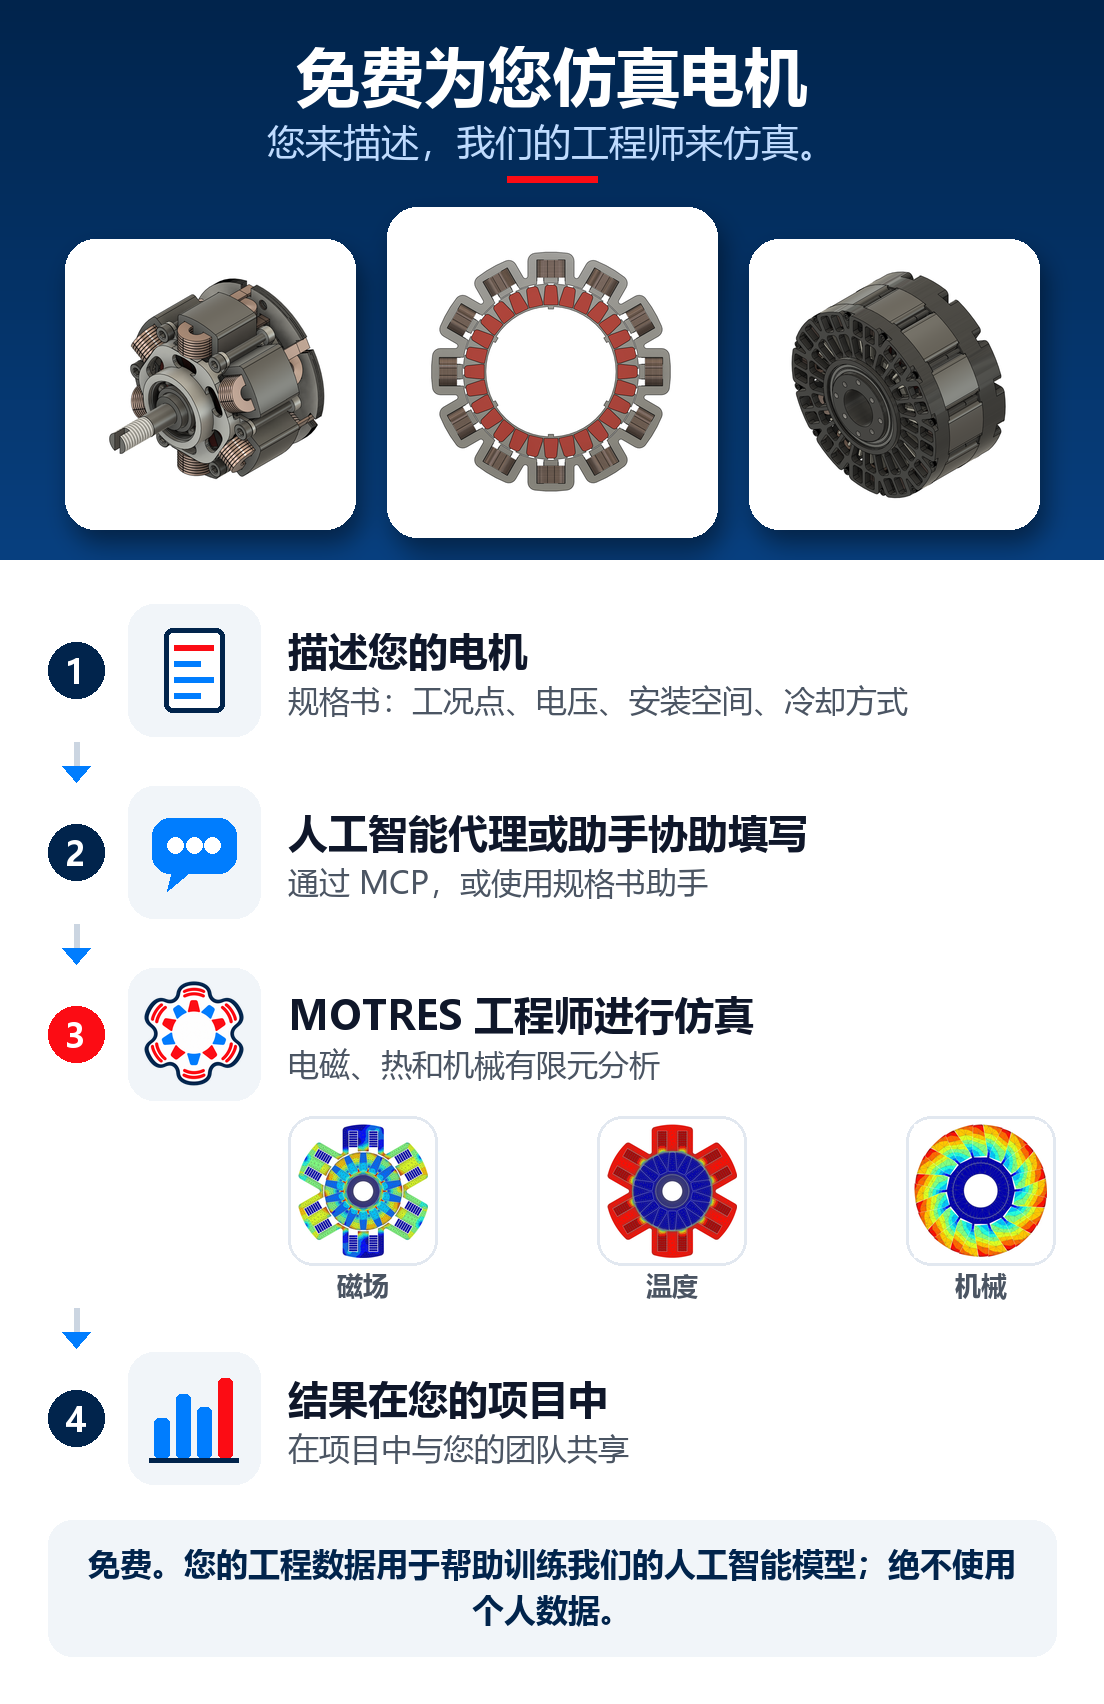
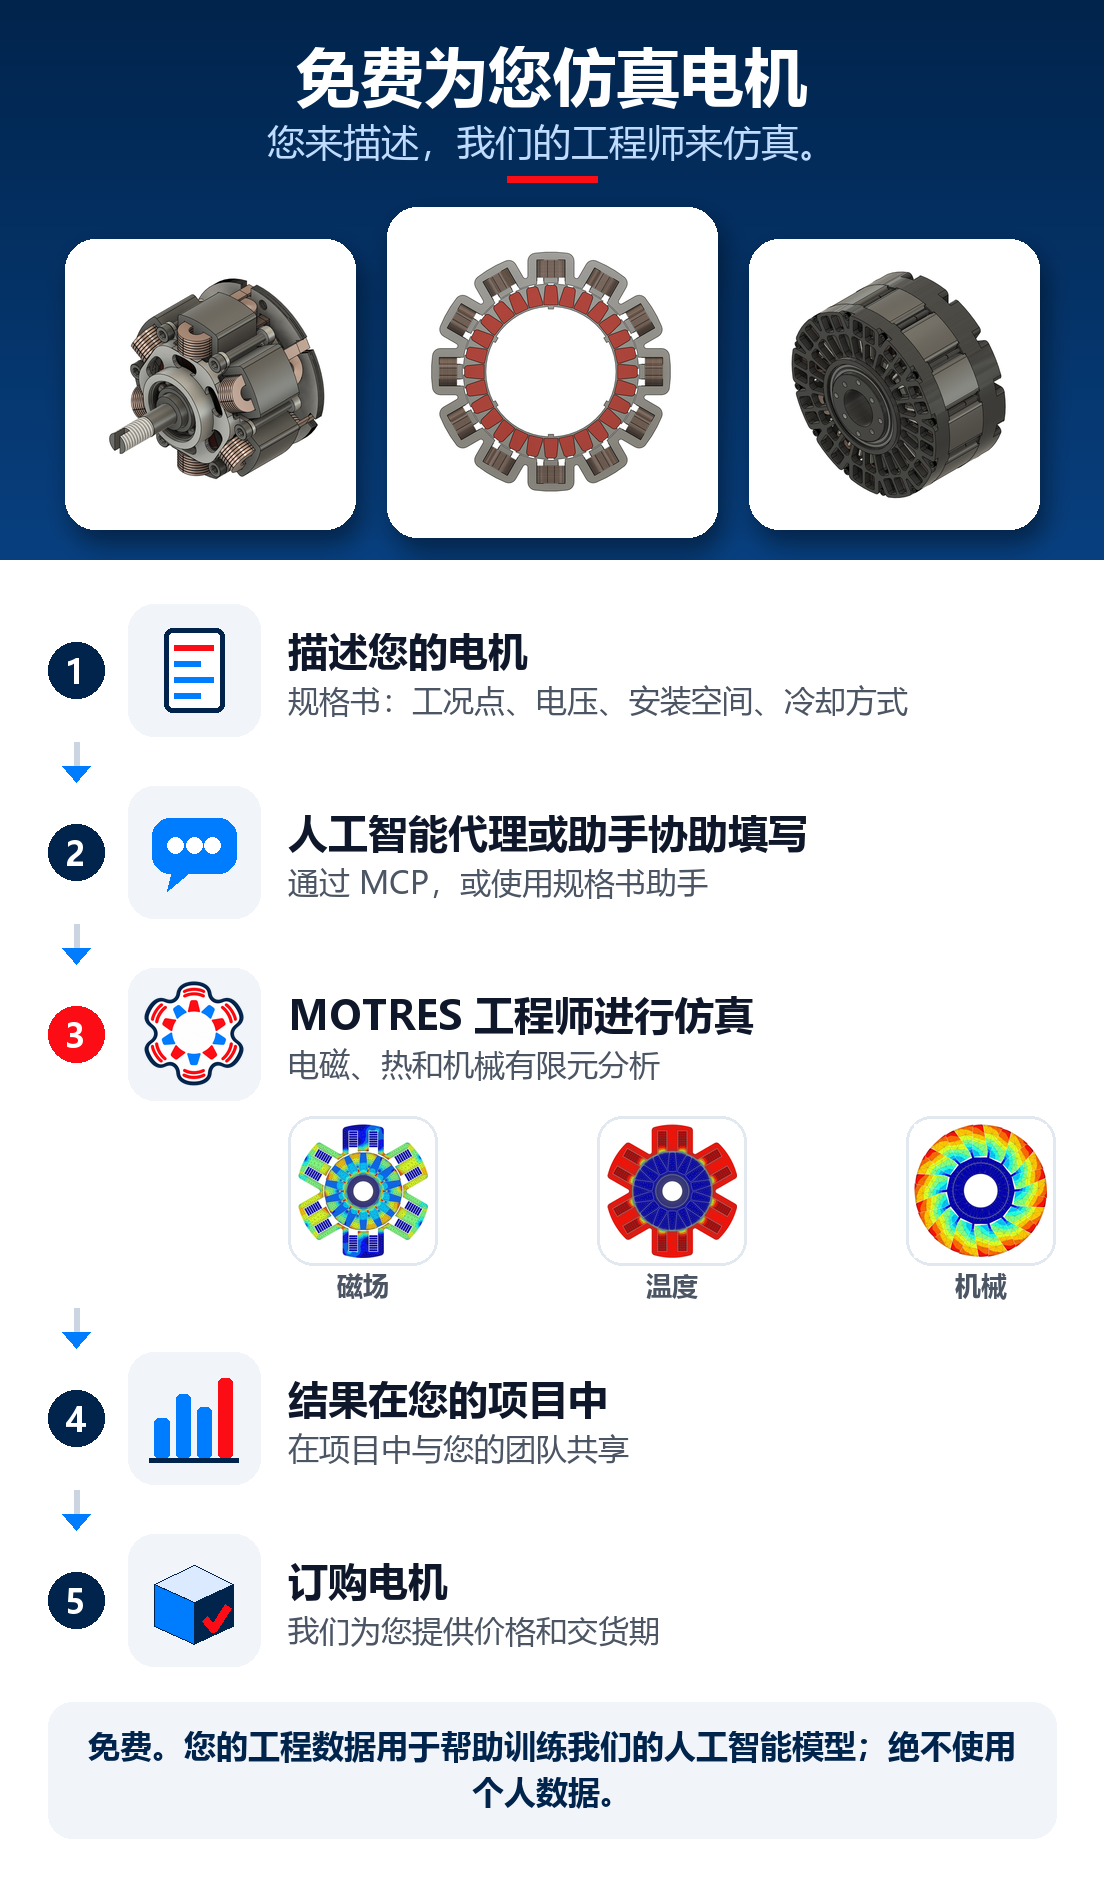
feat(mail): fifth step - order your motor, we send the price and lead time (owner 2026-11-11)

diff --git a/scripts/make_mail_flow_image.py b/scripts/make_mail_flow_image.py
@@ -4,7 +4,7 @@
     python scripts/make_mail_flow_image.py
 
 Writes ``config/mail/images/free_simulation_flow.<lang>.png`` (1104 px wide = 2x the 552 px text column of the mail).
-A hero strip with renders of OUR PUBLIC motors (owner 2026-11-11 «возьми картинки наших моторов»), then the four steps; step 3
+A hero strip with renders of OUR PUBLIC motors (owner 2026-11-11 «возьми картинки наших моторов»), then the five steps; step 3
 shows the electromagnetic, thermal and displacement maps the landing page already publishes.  Sources, all public:
 
 * ``web/public/landing/core-l12.webp`` and the three ``web/public/landing/*-map/field`` pictures - CIANO14 40 L12, a public
@@ -45,6 +45,7 @@ TEXT = {
             ("Your AI agent or our assistant fills it in", "Through MCP, or with the specification assistant"),
             ("MOTRES engineers simulate it", "Electromagnetic, thermal and mechanical FEM"),
             ("Results in your project", "Shared with your team in the project"),
+            ("Order your motor", "We send you the price and lead time"),
         ],
         "maps": ("Field", "Heat", "Mechanics"),
         "note": "Free. Your engineering data help train our AI models; personal data never.",
@@ -57,6 +58,7 @@ TEXT = {
             ("人工智能代理或助手协助填写", "通过 MCP，或使用规格书助手"),
             ("MOTRES 工程师进行仿真", "电磁、热和机械有限元分析"),
             ("结果在您的项目中", "在项目中与您的团队共享"),
+            ("订购电机", "我们为您提供价格和交货期"),
         ],
         "maps": ("磁场", "温度", "机械"),
         "note": "免费。您的工程数据用于帮助训练我们的人工智能模型；绝不使用个人数据。",
@@ -113,7 +115,7 @@ def hero(lang: str, fonts: dict) -> Image.Image:
 
 
 def icon(draw: ImageDraw.ImageDraw, i: int, x: int, y: int, s: int) -> None:
-    """Flat icons in a rounded tile: 0 specification sheet, 1 chat bubble, 3 result bars (2 = the maps, drawn separately)."""
+    """Flat icons in a rounded tile: 0 specification sheet, 1 chat bubble, 3 result bars, 4 order box (2 = the maps, drawn separately)."""
     draw.rounded_rectangle((x, y, x + s, y + s), radius=s // 5, fill=PALE)
     if i == 0:
         draw.rounded_rectangle((x + s * .27, y + s * .18, x + s * .73, y + s * .82), radius=8, fill=(255, 255, 255), outline=NAVY, width=5)
@@ -131,6 +133,12 @@ def icon(draw: ImageDraw.ImageDraw, i: int, x: int, y: int, s: int) -> None:
             bx = x + s * (.20 + .16 * k)
             draw.rounded_rectangle((bx, y + s * (.80 - h), bx + s * .11, y + s * .80), radius=5, fill=RED if k == 3 else BLUE)
         draw.line((x + s * .16, y + s * .82, x + s * .84, y + s * .82), fill=NAVY, width=5)
+    elif i == 4:
+        # a shipping box with a red tick
+        draw.polygon([(x + s * .20, y + s * .38), (x + s * .50, y + s * .24), (x + s * .80, y + s * .38), (x + s * .50, y + s * .52)], fill=(219, 234, 254), outline=NAVY)
+        draw.polygon([(x + s * .20, y + s * .38), (x + s * .50, y + s * .52), (x + s * .50, y + s * .84), (x + s * .20, y + s * .70)], fill=BLUE, outline=NAVY)
+        draw.polygon([(x + s * .80, y + s * .38), (x + s * .50, y + s * .52), (x + s * .50, y + s * .84), (x + s * .80, y + s * .70)], fill=NAVY)
+        draw.line([(x + s * .58, y + s * .64), (x + s * .65, y + s * .72), (x + s * .76, y + s * .55)], fill=RED, width=8, joint="curve")
 
 
 def map_tile(path: Path, s: int) -> Image.Image:
@@ -175,7 +183,7 @@ def make(lang: str) -> Path:
     note_lines = wrap(probe, t["note"], f_note, W - 2 * PAD - 60, cjk)
     note_h = len(note_lines) * 46 + 44
     hero_img = hero(lang, fonts)
-    H = hero_img.height + 44 + sum(r[2] for r in rows) + 3 * 50 + 36 + note_h + PAD
+    H = hero_img.height + 44 + sum(r[2] for r in rows) + (len(rows) - 1) * 50 + 36 + note_h + PAD
 
     img = Image.new("RGBA", (W, H), (255, 255, 255, 255))
     img.alpha_composite(hero_img, (0, 0))
@@ -209,7 +217,7 @@ def make(lang: str) -> Path:
                 img.alpha_composite(map_tile(p, map_s), (mx, my))
                 d.text((mx + map_s // 2, my + map_s + 18), label, font=f_map, fill=GREY, anchor="mm")
         y += h
-        if i < 3:
+        if i < len(rows) - 1:
             ax = PAD + num_d // 2
             d.line((ax, y + 6, ax, y + 42), fill=(203, 213, 225), width=6)
             d.polygon([(ax - 14, y + 30), (ax + 14, y + 30), (ax, y + 46)], fill=BLUE)

diff --git a/config/mail/free_simulation_launch_2026-11.zh-CN.md b/config/mail/free_simulation_launch_2026-11.zh-CN.md
@@ -4,7 +4,7 @@ Subject: AeroStator：描述您的电机，我们免费为您仿真
 
 现在，您可以在 AeroStator 上通过规格书描述您所需的电机或发电机，MOTRES 工程师将为您免费进行仿真：永磁电机的电磁、热和机械有限元分析。
 
-![免费为您仿真电机。1. 在规格书中描述您的电机。2. 人工智能代理或助手协助填写。3. MOTRES 工程师进行仿真：电磁、热和机械有限元分析。4. 结果在您的项目中。免费；您的工程数据用于帮助训练我们的人工智能模型，绝不使用个人数据。](image:free_simulation_flow)
+![免费为您仿真电机。1. 在规格书中描述您的电机。2. 人工智能代理或助手协助填写。3. MOTRES 工程师进行仿真：电磁、热和机械有限元分析。4. 结果在您的项目中。5. 订购电机：我们为您提供价格和交货期。免费；您的工程数据用于帮助训练我们的人工智能模型，绝不使用个人数据。](image:free_simulation_flow)
 
 ## 使用方式
 

diff --git a/config/mail/free_simulation_launch_2026-11.en.md b/config/mail/free_simulation_launch_2026-11.en.md
@@ -4,7 +4,7 @@ Hello,
 
 On AeroStator you can now describe the motor or generator you need in a specification, and MOTRES engineers simulate it for you, free of charge: electromagnetic, thermal and mechanical FEM analysis of permanent-magnet machines.
 
-![Your motor, simulated free. 1. Describe your motor in a specification. 2. Your AI agent or our assistant fills it in. 3. MOTRES engineers simulate it: electromagnetic, thermal and mechanical FEM. 4. Results in your project. Free; your engineering data help train our AI models, personal data never.](image:free_simulation_flow)
+![Your motor, simulated free. 1. Describe your motor in a specification. 2. Your AI agent or our assistant fills it in. 3. MOTRES engineers simulate it: electromagnetic, thermal and mechanical FEM. 4. Results in your project. 5. Order your motor: we send you the price and lead time. Free; your engineering data help train our AI models, personal data never.](image:free_simulation_flow)
 
 ## How it works
 
